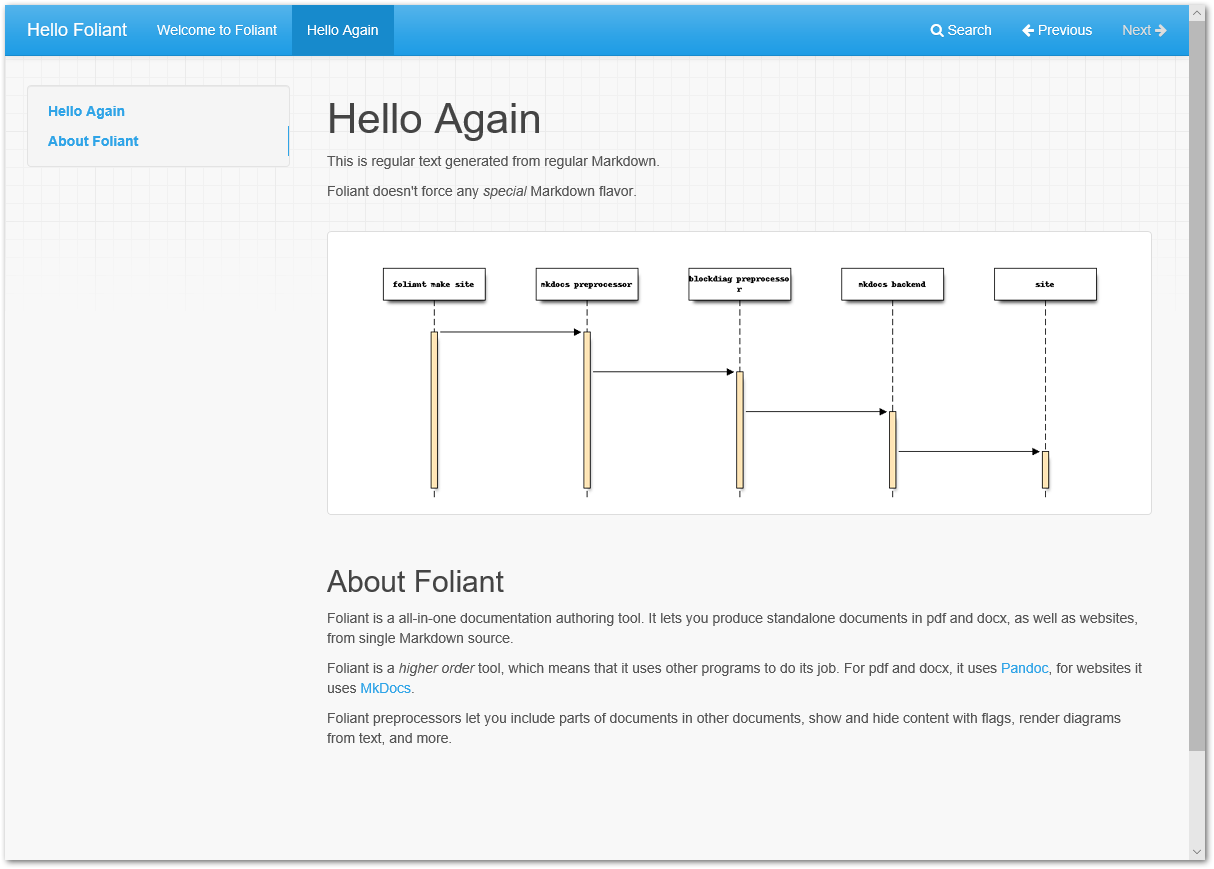
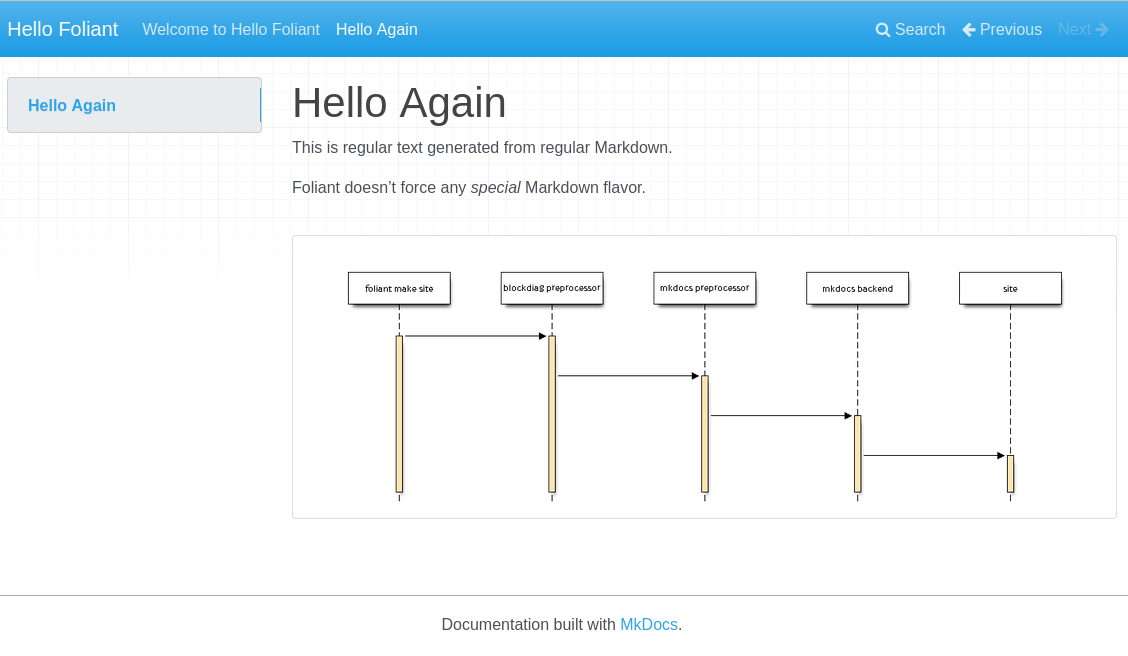
update main page, installation, quickstart and start with architecture

diff --git a/src/quickstart.md b/src/quickstart.md
@@ -2,19 +2,21 @@
 
 In this tutorial, you’ll learn how to use Foliant to build websites and pdf documents from a single Markdown source. You’ll also learn how to use Foliant preprocessors.
 
+It is recommended to run Foliant through Docker to get consistent results, but it's perfectly fine to run it natively. In this tutorial we will show the example commands for both native way (these will go first) and the Docker way (these will follow).
+
 
 ## Create New Project
 
 All Foliant projects must adhere to a certain structure. Luckily, you don’t have to memorize it thanks to <link src="cli/init/index.md" title="Init">Init</link> extension.
 
-You should have installed it during <link src="installation.md" title="Installation">Foliant installation</link>) and it’s included in Foliant’s default Docker image.
+You should have installed it during <link src="installation.md" title="Installation">Foliant installation</link> and it’s included in Foliant’s default Docker image.
 
 To use it, run `foliant init` command:
 
 ```bash
 $ foliant init
 Enter the project name: Hello Foliant
-✔ Generating Foliant project
+Generating Foliant project
 ─────────────────────
 Project "Hello Foliant" created in hello-foliant
 ```
@@ -22,14 +24,14 @@ Project "Hello Foliant" created in hello-foliant
 To do the same with Docker, run:
 
 ```bash
-$ docker run --rm -it -v `pwd`:/usr/src/app -w /usr/src/app foliant/foliant init
+$ docker run --rm -it --user $(id -u):$(id -g) -v $(pwd):/usr/src/app -w /usr/src/app foliant/foliant init
 Enter the project name: Hello Foliant
 Generating project... Done
 ─────────────────────
 Project "Hello Foliant" created in hello-foliant
 ```
 
-Here’s what this command created:
+The `init` command created a structure for Foliant project in `hello-foliant` subfolder:
 
 ```bash
 $ cd hello-foliant
@@ -46,24 +48,28 @@ $ tree
 1 directory, 6 files
 ```
 
-`foliant.yml` is your project’s config file.
+`foliant.yml` is your <link src="config.md">Project Configuration</link> file.
 
-`src` directory is where the content of the project lives. Currently, there’s just one file `index.md`.
+`src` is the directory for your Markdown documents. Currently, there’s just one file there called `index.md`.
 
-`requirements.txt` lists  the Python packages required for the project: Foliant backends and preprocessors, MkDocs themes, and what not. The the Docker image for the project is built, these requirements are installed in it.
+`requirements.txt` lists the Python packages required for the project: Foliant backends and preprocessors, MkDocs themes, and whatnot. When the Docker image for the project is built, these requirements will be installed in it.
 
 `Dockerfile` and `docker-compose.yml` are necessary to build the project in a Docker container.
 
 
 ## Build Site
 
-To build a site you will first need a suitable backend (to catch up with the terminology, check <link src="architecture.md" title="Architecture And Basic Design Concepts">this article</link>. Let’s start with **MkDocs** backend. First, install it using the following command (or skip to the docker example):
+To build a site you will first need a suitable *backend*. To catch up with the terminology, check <link src="architecture.md" title="Architecture And Basic Design Concepts">this article</link>, but in short, backends are Foliant modules responsible for converting Markdown sources into the final documentation format.
+
+Let’s start with **MkDocs** backend. First, install it using the following command:
 
 ```bash
-python3 -m pip install foliantcontrib.mkdocs
+pip3 install foliantcontrib.mkdocs
 ```
 
-Then, in the project directory, run:
+Docker users would normally need to add this package to the `requirements.txt` file instead, but mkdocs is already there by default if you used `init` to generate project structure.
+
+To build a site, in the project directory, run:
 
 ```bash
 $ foliant make site
@@ -101,11 +107,9 @@ Open [localhost:8000](http://localhost:8000/) in your web browser. You should se
 
 ## Build PDF
 
->   **Note**
->
->   To build PDF with Pandoc, make sure you have it and TeXLive installed (see <link src="installation.md" title="Installation">Installation</link>).
+To build PDF with Pandoc natively, first you will need to install Pandoc itself and TexLive, check <link src="installation.md">Foliant installation page</link> for instructions.
 
-In the project directory, run:
+Then, in the project directory, run:
 
 ```bash
 $ foliant make pdf
@@ -154,11 +158,17 @@ Your standalone pdf documentation is ready! It should look something like this:
 
 ## Edit Content
 
-Your project’s content lives in `*.md` files in `src` folder. You can split it between multiple files and subfolders.
+Your project’s content lives in `.md` files inside `src` folder. You can organize it into multiple files and subfolders isinde the `src` as you please.
 
 Foliant encourages [pure Markdown](https://daringfireball.net/projects/markdown/) syntax as described by John Gruber. Pandoc, MkDocs, and other backend-specific additions are allowed, but we strongly recommend to put them in <link src="preprocessors/flags.md" title="Flags">`<if>...</if>`</link>.
 
-Create a file `hello.md` in `src` with the following content:
+Let's create a file `hello.md` inside `src` folder:
+
+```bash
+$ touch src/hello.md
+```
+
+And fill it with some content. For example:
 
 ```markdown
 # Hello Again
@@ -168,7 +178,7 @@ This is regular text generated from regular Markdown.
 Foliant doesn’t force any *special* Markdown flavor.
 ```
 
-Open `foliant.yml` and add `hello.md` to `chapters`:
+Now you have two files (or *chapters*) inside `src`, but Foliant knows only about one of them. To add `hello.md` to the project, open `foliant.yml` and add the new chapter to the `chapters` list:
 
 ```diff
 title: Hello Foliant
@@ -178,7 +188,28 @@ chapters:
 + - hello.md
 ```
 
-Rebuild the project to see the new page:
+Let's rebuild the project to see the new page.
+
+The native command:
+
+```bash
+foliant make pdf && foliant make site
+Parsing config... Done
+Applying preprocessor flatten... Done
+Applying preprocessor _unescape... Done
+Making pdf with Pandoc... Done
+────────────────────
+Result: 
+Hello_Foliant-2020-05-25.pdf
+Parsing config... Done
+Applying preprocessor mkdocs... Done
+Applying preprocessor _unescape... Done
+Making site with MkDocs... Done
+────────────────────
+Result: Hello_Foliant-2020-05-25.mkdocs
+```
+
+The command for Docker:
 
 ```bash
 $ docker-compose run --rm foliant make site && docker-compose run --rm foliant make pdf
@@ -204,17 +235,18 @@ And see the new page appear on the site and in the pdf document:
 
 ## Use Preprocessors
 
-Preprocessors is what makes Foliant special and extremely flexible. Preprocessors are additional packages that, well, preprocess the source code of your project. You can do all kinds of stuff with preprocessors:
+Preprocessors are additional Foliant packages which transform your Markdown chapters in different ways. You can do all kinds of stuff with them:
 
 -   include remote Markdown files or their parts in the source files,
+-   perform auto-replace,
 -   render diagrams from textual description on build,
 -   restructure the project source or compile it into a single file for a particular backend.
 
-In fact, you have already used two preprocessors! Check the output of the `foliant make` commands and note the lines `Applying preprocessor mkdocs` and `Applying preprocessor flatten`. The first one informs you that the project source has been preprocessed with `mkdocs` preprocessor in order to make it compatible with MkDocs’ requirements, and the second one tells you that <link src="preprocessors/flatten.md" title="Flatten">`flatten`</link> preprocessor was used to squash the project source into one a single file (because Pandoc only works with single files).
+Preprocessors don't touch your sources in the `src` folder. Instead they copy them into a temporary directory and transform the fresh copies on each build.
 
-These preprocessors where called by MkDocs and Pandoc backends respectively. You didn’t have to install or activate them explicitly.
+In fact, you have already used two preprocessors! Look at the output of the `foliant make` commands and note the lines `Applying preprocessor mkdocs` and `Applying preprocessor flatten`. The `mkdocs` preprocessor made your files compatible with MkDocs’ requirements, and the <link src="preprocessors/flatten.md" title="Flatten">`flatten`</link> preprocessor was used to squash the project source into one file to produce a single PDF with Pandoc. These preprocessors where called by MkDocs and Pandoc backends implicitly.
 
-Now, let’s try to use a different kind of preprocessors, the ones that register new tags: <link src="preprocessors/blockdiag.md" title="Blockdiag">Blockdiag</link>.
+Now let's add a preprocessor into the pipeline ourselves. We've chosen <link src="preprocessors/blockdiag.md" title="Blockdiag">Blockdiag</link> preprocessor for this tutorial.
 
 ### Embed Diagrams with Blockdiag
 
@@ -223,11 +255,11 @@ Now, let’s try to use a different kind of preprocessors, the ones that registe
 First, we need to install the blockdiag preprocessor:
 
 ```bash
-$ python3 -m pip install foliantcontrib.blockdiag
+$ pip3 install foliantcontrib.blockdiag
 ```
 Or, if you are building with docker, add `foliantcontrib.blockdiag` to requirements.txt and rebuild the image with `docker-compose build` command.
 
-Next, we need to switch on the <link src="preprocessors/blockdiag.md" title="Blockdiag">`blockdiag`</link> preprocessor in config. Open `foliant.yml` and add the following lines:
+Next, we need to switch on the <link src="preprocessors/blockdiag.md" title="Blockdiag">`blockdiag`</link> preprocessor in project config. Open `foliant.yml` and add the following lines:
 
 ```diff
 title: Hello Foliant
@@ -248,18 +280,18 @@ Foliant doesn’t force any *special* Markdown flavor.
 
 + <seqdiag caption="This diagram is generated on the fly">
 +   seqdiag {
-+     "foliant make site" -> "mkdocs preprocessor" -> "blockdiag preprocessor" -> "mkdocs backend" -> site;
++     "foliant make site" -> "blockdiag preprocessor" -> "mkdocs preprocessor" -> "mkdocs backend" -> site;
 +   }
 + </seqdiag>
 ```
 
-Blockdiag preprocessor adds several tags to Foliant, each corresponding to a certain diagram type. Sequence diagrams are defined with `<seqdiag></seqdiag>` tag. This is what we used in the sample above. The diagram definition sits in the tag body and the diagram properties such as caption or format are defined as tag parameters.
+Blockdiag preprocessor extends the Markdown syntax of your documentation by adding several *tags*. Each tag produces different diagram type. Sequence diagrams are defined with `<seqdiag></seqdiag>` tag. This is what we used in the sample above. The diagram definition sits in the tag body and the diagram properties such as caption or format are defined as tag attributes.
 
-Rebuild the site with `foliant make site` and open it in the browser:
+Rebuild the site with `foliant make site` or `docker-compose run --rm foliant make site` and open it in the browser:
 
 ![Sequence diagram drawn with seqdiag on the site](images/basic-mkdocs-seqdiag.png)
 
-Rebuild the pdf as well and see that the diagram is there too:
+Rebuild the pdf and see that the diagram is there too:
 
 ![Sequence diagram drawn with seqdiag in the pdf](images/basic-pdf-seqdiag.png)
 

diff --git a/src/architecture.md b/src/architecture.md
@@ -2,23 +2,39 @@
 
 Foliant is an open-source software written in Python.
 
-Foliant has modular architecture. Foliant itself, also known as [Foliant Core](https://github.com/foliant-docs/foliant/), is a relatively compact and rarely updated package. Foliant Core centrally manages extensions and provides base classes for developing extensions according to a common pattern.
+[![Architecture of Foliant](https://raw.githubusercontent.com/foliant-docs/docs/master/src/images/basic-architecture.png)(https://raw.githubusercontent.com/foliant-docs/docs/master/src/images/basic-architecture.png)
 
-Suddenly, Foliant Core doesn’t build documentation projects. All application functionality is provided by Foliant extensions. There are almost 50 extensions for Foliant. If you don’t need some extensions, you may not to install them.
+Foliant has modular architecture. [Foliant Core](https://github.com/foliant-docs/foliant/) is a relatively compact and rarely updated package. Foliant Core is a dispatcher which manages installed extensions according to the configuration. Foliant Core package also defines base classes for all types of extensions.
 
-There are 4 types of Foliant extensions.
+Foliant Core itself does not build documentation projects, this job is delegated to extensions.
 
-* **Backends** are modules that prepare your Markdown content in accordance to requirements of third-party software that builds some final **targets**, e.g. PDF files or static sites. Also backends manage external commands that call such software. Usually one backend manages one external command, for example, `pandoc` or `mkdocs`. A backend may not to call any external command but upload your content to some external service, e.g. Confluence. A single backend may generate multiple targets. Different backends may build the same target. For example, the target `site` (a static site) can be built with 3 backends: MkDocs, Slate, and Aglio. If more than one of them are installed, you should choose the certain backend to build the required target: it may be specified in the command line or asked interactively.
-* **Preprocessors** are modules that perform various transformations of your source Markdown content before passing the content to a backend. Preprocessors are the most numerous type of Foliant extensions. They may be very simple like [RemoveExcess](https://github.com/foliant-docs/foliantcontrib.removeexcess/blob/develop/foliant/preprocessors/removeexcess.py), or pretty complicated like [Includes](https://github.com/foliant-docs/foliantcontrib.includes/blob/develop/foliant/preprocessors/includes.py). Each Foliant project may use any number of preprocessors that are applied sequentially, one after another. Preprocessors provide many kinds of content transformations. Preprocessors may:
+There are 4 types of base Foliant extensions.
+
+* **Backends** are responsible for building the project's Markdown content into final formats which we call *targets*, e.g. PDF files or static sites. Backends manage external commands that call third party software to produce the final documentation. Usually one backend manages one external command, for example, `pandoc` or `mkdocs`. A backend may not to call any external command but upload your content to some external service, e.g. Confluence. A single backend may generate multiple targets. Different backends may build the same target. For example, the target `site` (a static site) can be built with 3 official backends: MkDocs, Slate, and Aglio. If more than one of them are installed, you should choose the certain backend to build the required target: it may be specified in the command line or asked interactively.
+* **Preprocessors** are modules that perform various transformations of your source Markdown content before passing it to a backend. Preprocessors are the most numerous type of Foliant extensions. They may be very simple like [RemoveExcess](https://github.com/foliant-docs/foliantcontrib.removeexcess/blob/develop/foliant/preprocessors/removeexcess.py), or pretty complicated like [Includes](https://github.com/foliant-docs/foliantcontrib.includes/blob/develop/foliant/preprocessors/includes.py). Each Foliant project may use any number of preprocessors that are applied sequentially, one after another. Preprocessors provide many kinds of content transformations. Preprocessors may:
     * replace something in your content according to some rules;
     * draw diagrams and schemes from code;
     * include content from external files into your sources;
-    * get data for your documentation project from external services, e.g. remote Git repositories, Swagger, Testrail, Figma, Sympli, etc.;
+    * get data for your documentation project from external services, e.g. remote Git repositories, Swagger, Testrail, Figma, Sympli, SQL Database etc.;
     * set high-level semantic relations between different parts of you content to provide smart cross-target links, or to restructure your single-source documentation automatically, context-dependently;
     * and even run arbitrary external commands that can do anything with your files.
-* **CLI extensions** extend Foliant’s command-line interface and provide additional actions that may be called from the command line.
-* **Config extensions** provide additional actions that are performed during reading the project’s config. For example, MultiProject extension allows to include multiple nested Foliant projects into a parent Foliant project’s structure.
+* **CLI extensions** extend Foliant’s command-line interface and provide additional actions that may be called from the command line. This is always the topmost component of any Foliant's action. *foliant* ***make*** is in fact a CLI extension which builds projects.
+* **Config extensions** allow to customize the project configuration parsing, add custom YAML tags and new configuration options. For example, MultiProject extension adds a YAML tag `!from` which allows to include multiple nested Foliant projects into a parent Foliant project’s structure.
 
-Foliant’s architecture is shown at the following diagram.
+# Project Build Process
 
-![Architecture of Foliant](https://raw.githubusercontent.com/foliant-docs/docs/master/src/images/basic-architecture.png)
+The project build process is governed by Foliant CLI extension called *make*. make is a part of Foliant core package.
+
+The build process is described below:
+
+1. User calls a `make` command specifying the backend and the target he wants to build, for example:
+    
+        $ foliant make site --with mkdocs
+
+    In this example the target is `site` and backend is `mkdocs`. `--with` argument is optional, `make` will assume the backend or ask for user to input the name interactively.
+
+2. make launches the project build in the following stages:
+    1. **Configuration parsing**. The project configuration file (`foliant.yml` if not customized in `--config` argument) is processed by each installed *Config extension* and saved into internal context.
+    2. **Copying sources**. The `src` folder which holds Markdown source files of the project is copied into a temporary folder, which is called `__folianttmp__` by default. Preprocessors will only work with the copies, leaving the sources intact.
+    3. **Preprocessing**. Each *preprocessor* defined in the project configuration file is applied to the copy of Markdown sources. The preprocessors run in an order in which they are specified in the `preprocessors` list, but each backend may implicitly add specific preprocessors to the beginning or to the end of this list.
+    4. **Producing output format**. The chosen *backend* takes the Markdown sources in the temporary dir and converts them into output format.

diff --git a/src/installation.md b/src/installation.md
@@ -1,6 +1,6 @@
 # Installation
 
-Installing Foliant to your system can be split into three stages: installing Python with your system’s package manager, installing Foliant with pip, and optionally installing Pandoc and TeXLive bundle. Below you’ll find the instructions for three popular platforms: macOS, Windows, and Ubuntu.
+Installation of Foliant is split into three stages: installing Python with your system’s package manager, installing Foliant with pip, and optionally installing Pandoc and TeXLive bundle. Below you’ll find the instructions for three popular platforms: macOS, Windows, and Ubuntu.
 
 Alternatively, you can avoid installing Foliant and its dependencies on your system by using <link title="Docker">Docker and Docker Compose</link>.
 
@@ -13,15 +13,15 @@ Alternatively, you can avoid installing Foliant and its dependencies on your sys
 
 2.  Install Foliant with pip:
 
-        $ python3 -m pip install foliant foliantcontrib.init
+        $ pip3 install foliant foliantcontrib.init
 
-3.  If you plan to bake pdf or docx, install Pandoc and MacTeX with Homebrew:
+3.  If you plan to bake PDF or DOCX, install Pandoc and MacTeX with Homebrew:
 
         $ brew install pandoc mactex librsvg
 
-    And finally, install the Pandoc backend:
+    Finally, install the Pandoc backend:
 
-        $ python3 -m pip install foliantcontrib.pandoc
+        $ pip3 install foliantcontrib.pandoc
 
 ## Windows
 
@@ -37,41 +37,55 @@ Alternatively, you can avoid installing Foliant and its dependencies on your sys
 
         $ python -m pip install foliant foliantcontrib.init
 
-3.  If you plan to bake pdf or docx, install Pandoc and MikTeX with Scoop:
+3.  If you plan to bake pdf or DOCX, install Pandoc and MikTeX with Scoop:
 
         $ scoop install pandoc latex
 
-    And finally, install the Pandoc backend:
+    Finally, install the Pandoc backend:
 
-        $ python3 -m pip install foliantcontrib.pandoc
+        $ pip3 install foliantcontrib.pandoc
 
 ## Ubuntu
 
-1.  Install Python 3 with apt. On 14.04 and 16.04:
+1.  Install Python 3 with apt.
 
-        $ apt update && apt install -y python3 python3-pip
+    On 18.04 or higher Python 3 will already be installed. Check that by running:
 
-    On 14.04 and 16.04:
+        $ python3
 
-        $ add-apt-repository ppa:jonathonf/python-3.6
-        $ apt update && apt install -y python3 python3-pip
+    If it is not installed, here's a way to install the latest version:
+
+        $ sudo apt update
+        $ sudo apt install software-properties-common
+        $ sudo add-apt-repository ppa:deadsnakes/ppa
+        $ sudo apt install python3.9 python3-pip
 
 2.  Install Foliant with pip:
 
-        $ python3 -m pip install foliant foliantcontrib.init
+        $ pip3 install foliant foliantcontrib.init
 
-3.  If you plan to bake pdf or docx, install Pandoc and TeXLive with apt and wget:
+3.  If you plan to bake pdf or DOCX, install Pandoc and TeXLive with apt and wget:
 
-        $ apt update && apt install -y wget texlive-full librsvg2-bin
-        $ wget https://github.com/jgm/pandoc/releases/download/2.0.5/pandoc-2.0.5-1-amd64.deb && dpkg -i pandoc-2.0.5-1-amd64.deb
+        $ sudo apt update
+        $ sudo apt install -y texlive-full librsvg2-bin pandoc
 
-    And finally, install the Pandoc backend:
+    Finally, install the Pandoc backend:
 
-        $ python3 -m pip install foliantcontrib.pandoc
+        $ pip3 install foliantcontrib.pandoc
 
 
 ## Docker
 
+There is a selection of Docker images for Foliant in the [Docker hub](https://hub.docker.com/r/foliant/foliant):
+
+* `foliant/foliant` — the basic image with just Foliant core and the `init` command
+* `foliant/foliant:pandoc` — same as basic image but with addition of TexLive  and Pandoc for building PDF and DOCX
+* `foliant/foliant:full` — the full image with all official Foliant extensions and third-party tools required for them to work.
+
+Choose the image you want and run the `docker pull command`
+
 ```bash
 $ docker pull foliant/foliant
 ```
+
+If you are new to Docker, check our tutorial on <link src="tutorials/docker.md">using Foliant with Docker</link>.

diff --git a/src/index.md b/src/index.md
@@ -1,10 +1,12 @@
 # Welcome to Foliant!
 
-Foliant is a all-in-one documentation authoring tool. It lets you produce standalone documents in pdf and docx, as well as websites, from single Markdown source.
+Foliant is an all-in-one single-source documentation authoring tool. It lets you produce standalone documents in **pdf** and **docx**, build **static websites**, upload pages to **Confluence**, all from single Markdown source.
 
-Foliant is a higher order tool, which means it uses other programs to do its job. For pdf and docx, it usually uses [Pandoc](https://pandoc.org/), for websites it in most cases uses [MkDocs](https://www.mkdocs.org/).
+Foliant is a higher order tool, which means it uses other programs to do its job. For pdf and docx, it can use [Pandoc](https://pandoc.org/) or [md-to-pdf](https://github.com/simonhaenisch/md-to-pdf), for websites there are available integrations with [MkDocs](https://www.mkdocs.org/), [Aglio](https://github.com/danielgtaylor/aglio) and [Slate](https://github.com/slatedocs/slate).
 
-Foliant preprocessors let you include parts of documents in other documents, show and hide content with flags, render diagrams from text, and much more.
+Foliant preprocessors let you reuse parts of your documents, show and hide content with flags, render diagrams from text, and much more.
+
+Foliant is highly extensible, so if it lacks some of the functions or output formats you can always make a plugin for it or request one from our team.
 
 > Logo made by [Hand Drawn Goods](http://handdrawngoods.com/) from [flaticon.com](https://www.flaticon.com/).
 
@@ -14,9 +16,10 @@ You’ll love Foliant if you:
 
 * need to ship documentation as pdf, docx, and websites
 * want to use Markdown with consistent extension system instead of custom syntax for every new bit of functionality
-* like reStructuredText’s extensibility and AsciiDoc’s flexibility, but actually would rather use Markdown
-* want a tool that you can actually write custom extensions for without dealing with something as overengineered as Sphinx
-* have documentation spread across many repos and want to reuse parts between documents
+* like reStructuredText’s extensibility and AsciiDoc’s flexibility, but would rather use Markdown
+* want a tool that you can extend with custom plugins without dealing with something as overengineered as Sphinx
+* want to work with docs as code and make them a part of your CI pipeline
+* to standardize the documenting approach among the segregated repositories with sources of your texts
 
 ## Changelog
 
